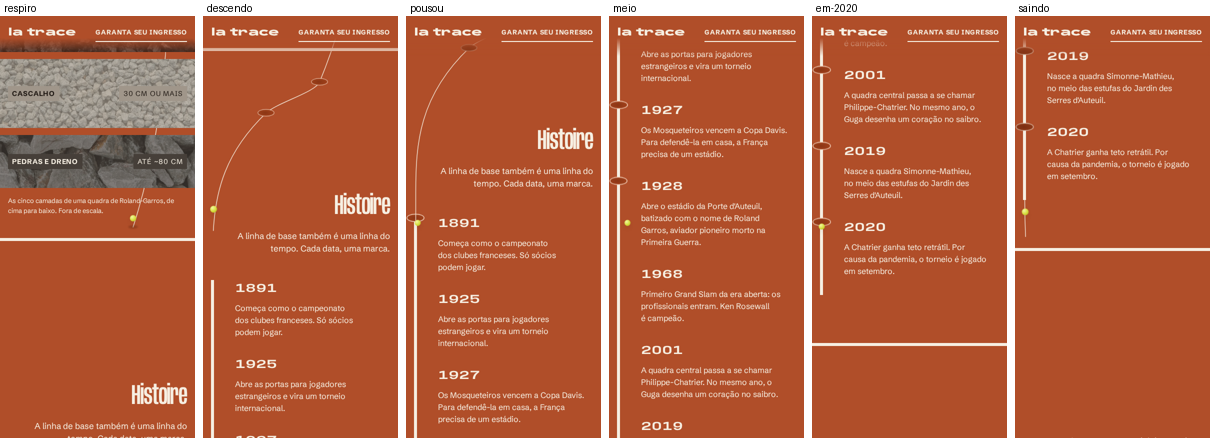
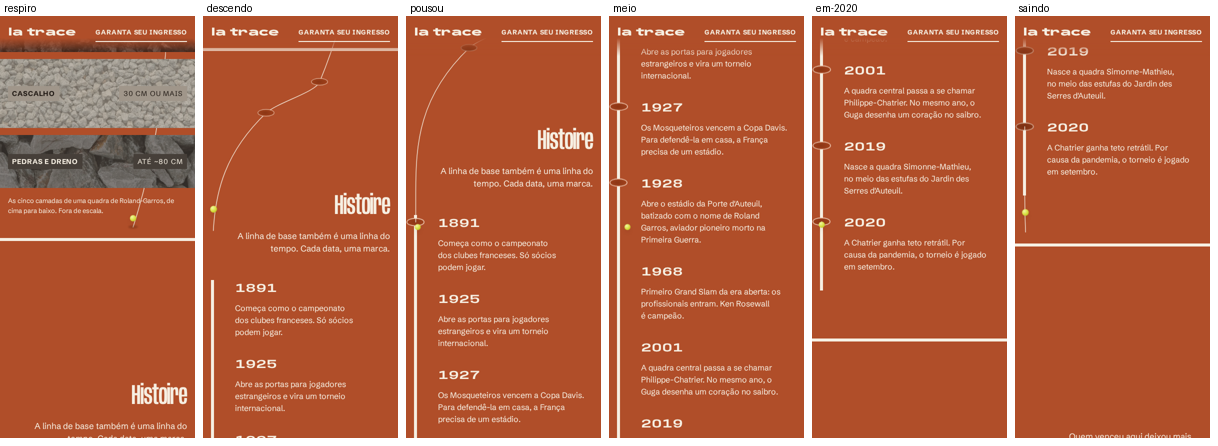
fix: Histoire com as marcas no centro da linha, o traço terminando na bola e a saída pela ponta da linha

diff --git a/src/extras.js b/src/extras.js
@@ -65,7 +65,8 @@ export function runTimeline(section) {
   section.dataset.dock = '';
 
   // as datas são marcas: nascem quando a bola toca nelas
-  gsap.set(dots, { yPercent: -50, scale: 0 });
+  // (o CSS já centra a data na linha com translateY(-50%); o GSAP assume esse deslocamento como yPercent)
+  gsap.set(dots, { y: 0, yPercent: -50, scale: 0 });
   const made = dots.map(() => false);
   function touch(i) {
     if (made[i]) return;
@@ -88,22 +89,6 @@ export function runTimeline(section) {
     return { x: d.x + d.width / 2, y: d.y };
   };
   const trackAt = () => localOf(track, section);
-  // a saída: pelo vão entre o texto da penúltima data e a última, e para baixo até passar os textos
-  function exitPoints(shiftX) {
-    const last = items[lastIndex];
-    const box = localOf(last, section);
-    const before = items[lastIndex - 1].getBoundingClientRect();
-    const range = document.createRange();
-    range.selectNodeContents(items[lastIndex - 1]);
-    const textRight = Math.max(...[...range.getClientRects()].map((r) => r.right)) - before.left + localOf(items[lastIndex - 1], section).x;
-    const x = (textRight + box.x) / 2 - shiftX;
-    const lastDot = dotAt(lastIndex);
-    return [
-      { x: lastDot.x - shiftX, y: lastDot.y, contact: true },
-      { x, y: lastDot.y + 24 },
-      { x, y: box.y + box.height + 16 },
-    ];
-  }
   const shift = { entry: () => ({ x: -trackAt().x, y: -trackAt().y }) };
   const passed = () => dots.forEach((_, i) => touch(i));
 
@@ -139,13 +124,21 @@ export function runTimeline(section) {
   gsap.matchMedia().add('(min-width: 721px)', () => {
     // medidas de layout (offset*), que não mudam com o translate já aplicado
     const distance = () => Math.max(0, track.offsetLeft + track.offsetWidth - section.clientWidth);
+    // a ponta da linha, com a linha já no fim do scroll lateral: no meio do trecho a mais depois de 2020
+    const lineEnd = () => {
+      const last = localOf(items[lastIndex], section);
+      const right = section.clientWidth;
+      const after = last.x + last.width - distance();
+      return { x: Math.min(right - 40, after + (right - after) * 0.55), y: dotAt(lastIndex).y };
+    };
     const hold = () => window.innerHeight * 0.25; // a espera em 1891 e em 2020
+    const out = () => window.innerHeight * 0.3; // o último pulo, de 2020 até o fim da linha
     const travelAt = (t) => gsap.utils.clamp(0, 1, (t - hold()) / Math.max(1, distance()));
     const st = ScrollTrigger.create({
       trigger: section,
       // o pin começa quando 1891 chega ao meio da tela: é onde a ponta do traço (e a bola) está
       start: () => `top ${window.innerHeight / 2 - dotAt(0).y}px`,
-      end: () => `+=${distance() + 2 * hold()}`,
+      end: () => `+=${distance() + 2 * hold() + out()}`,
       pin: true,
       invalidateOnRefresh: true,
       onUpdate: (self) => gsap.set(track, { x: -distance() * travelAt(self.progress * (self.end - self.start)) }),
@@ -158,11 +151,38 @@ export function runTimeline(section) {
       total: () => st.end - st.start,
       points: () => {
         const first = dotAt(0);
-        // desce reto pela esquerda (o título está à direita) e pousa em 1891
-        return { entry: [{ x: first.x, y: first.y - 120 }, { ...first, contact: true }], exit: exitPoints(distance()) };
+        const end = lineEnd();
+        const lastItem = localOf(items[lastIndex], section);
+        // desce reto pela esquerda (o título está à direita) e pousa em 1891; no fim, cai da ponta da linha
+        return {
+          entry: [{ x: first.x, y: first.y - 120 }, { ...first, contact: true }],
+          exit: [{ ...end, contact: true }, { x: end.x, y: lastItem.y + lastItem.height + 16 }],
+        };
       },
-      // u: de 0 (pouso em 1891) a 1 (saída de 2020), ao longo do pin inteiro
-      hop: (u) => hopTo(travelAt(u * (st.end - st.start)) * lastIndex, 'x'),
+      // u: de 0 (pouso em 1891) a 1 (a bola na ponta da linha), ao longo do pin inteiro
+      hop: (u) => {
+        const t = u * (st.end - st.start);
+        const leave = 2 * hold() + distance();
+        if (t < leave) {
+          hopTo(travelAt(t) * lastIndex, 'x');
+          return;
+        }
+        // o último pulo segue para a direita, como os outros: de 2020 até a ponta da linha
+        hopTo(lastIndex, 'x');
+        const f = gsap.utils.clamp(0, 1, (t - leave) / out());
+        const from = dotAt(lastIndex);
+        const a = { x: from.x - distance(), y: from.y };
+        const b = lineEnd();
+        const lift = 4 * f * (1 - f) * 30;
+        const ground = f > 0.94;
+        gsap.set(ball, {
+          x: a.x + (b.x - a.x) * f,
+          y: a.y - lift,
+          scaleX: ground ? 1.18 : 1,
+          scaleY: ground ? 0.74 : 1,
+          opacity: 1,
+        });
+      },
       passed,
     };
     return () => {

diff --git a/tests/e2e/extras.spec.js b/tests/e2e/extras.spec.js
@@ -111,8 +111,9 @@ const pinOf = (page) =>
     let y = 0;
     for (let n = dot; n && n !== sec; n = n.offsetParent) y += n.offsetTop;
     // o pin começa quando a bola pousa em 1891 (no meio da tela); espera, a linha corre, espera em 2020
+    // e dá o último pulo até a ponta da linha
     const start = top + y - innerHeight / 2;
-    return { start, end: start + spacer.offsetHeight - sec.offsetHeight, hold: innerHeight * 0.25 };
+    return { start, end: start + spacer.offsetHeight - sec.offsetHeight, hold: innerHeight * 0.25, out: innerHeight * 0.3 };
   });
 
 async function glideTo(page, y) {
@@ -147,9 +148,11 @@ test('Histoire: uma bola só do começo ao fim; ela espera na 1ª data e na últ
     await glideTo(page, pin.start + (pin.end - pin.start) * f);
     expect(await visibleBalls(page)).toBe(1);
   }
-  await glideTo(page, pin.end - pin.hold * 0.5); // espera em 2020
+  await glideTo(page, pin.end - pin.out - pin.hold * 0.5); // espera em 2020
   expect(await visibleBalls(page)).toBe(1);
   expect(await ballOnDot(page, -1)).toBeLessThan(14);
+  await glideTo(page, pin.end - pin.out * 0.5); // o último pulo, para a ponta da linha
+  expect(await visibleBalls(page)).toBe(1);
   for (const y of [pin.end + 200, pin.end + 700]) {
     await glideTo(page, y);
     expect(await visibleBalls(page)).toBe(1);
@@ -217,4 +220,24 @@ test.describe('Histoire no celular', () => {
       expect(hits).toEqual([]);
     }
   });
+});
+
+test('Histoire: as marcas ficam no centro da linha e o traço da chegada termina na bola', async ({ page }) => {
+  await page.goto('/');
+  await page.waitForLoadState('load');
+  const pin = await pinOf(page);
+  await glideTo(page, pin.start + pin.hold * 0.5);
+  const geometry = await page.evaluate(() => {
+    const sec = document.querySelector('#histoire');
+    const track = sec.querySelector('[data-timeline-track]');
+    const line = getComputedStyle(track, '::before');
+    const lineY = track.getBoundingClientRect().top + parseFloat(line.top) + parseFloat(line.height) / 2;
+    const dot = sec.querySelector('.timeline__dot').getBoundingClientRect();
+    const entry = sec.querySelector('.histoire__trace path');
+    const drawn = parseFloat(getComputedStyle(entry).strokeDasharray.split(',')[0]);
+    const end = entry.getPointAtLength(drawn).matrixTransform(entry.getScreenCTM());
+    return { lineY, dotY: dot.top + dot.height / 2, traceEndY: end.y };
+  });
+  expect(Math.abs(geometry.dotY - geometry.lineY)).toBeLessThan(1.5);
+  expect(geometry.traceEndY).toBeLessThan(geometry.dotY + 2);
 });

diff --git a/src/rally.js b/src/rally.js
@@ -168,8 +168,9 @@ export function createRally({ container, start }) {
         p.setAttribute('d', rally.d);
         p.setAttribute('transform', `translate(${s.x} ${s.y - off})`);
       }
-      d.lin = lengthForY(d.inY);
-      d.lout = lengthForY(d.outY);
+      // exatos (a tabela tem um ponto a cada ~25 px): o traço da chegada termina na bola, sem passar dela
+      d.lin = exactLengthForY(d.inY);
+      d.lout = exactLengthForY(d.outY);
     }
   }
 
@@ -202,6 +203,17 @@ export function createRally({ container, start }) {
         opacity: y > -15 && y < d.dock.el.clientHeight + 15 ? 1 : 0,
       });
     }
+  }
+
+  // o comprimento do traço em que ele chega à altura y, por bisseção (o traço só desce: y cresce com o comprimento)
+  function exactLengthForY(y) {
+    let [lo, hi] = [0, length];
+    for (let i = 0; i < 30; i++) {
+      const mid = (lo + hi) / 2;
+      if (path.getPointAtLength(mid).y < y) lo = mid;
+      else hi = mid;
+    }
+    return hi;
   }
 
   function lengthForY(y) {

diff --git a/processo/prompts/2026-10-10-34-histoire-detalhes.md b/processo/prompts/2026-10-10-34-histoire-detalhes.md
@@ -1,0 +1,21 @@
+# Prompt 34 · Histoire: o traço passando do quique, marcas fora do centro e a saída
+
+**Data:** 2026-10-10 · **Ferramenta:** Claude Code (Claude Opus 5.5)
+
+## O que eu pedi (literal)
+> boa! melhorou muito, mas a linha esta passando no primeiro quique e as marcas nao estao ao centro da linha, e na hora da bola sair, ela saindo pela esquerda do texto ta meio estranho
+
+## O que a IA fez
+- **Marcas fora do centro:** o CSS já centrava a data na linha com `translateY(-50%)`, e o GSAP somava outro -50% por cima. A marca subia 8 px. Agora o deslocamento é aplicado uma vez só.
+- **O traço passando do primeiro quique:** o ponto onde o traço da chegada para era procurado numa tabela com um ponto a cada ~25 px de caminho, então ele passava da bola e atravessava a linha. Agora o ponto exato é calculado por bisseção, e o traço termina na bola.
+- **A saída:** em vez de descer pela esquerda do texto de 2020, a bola segue na direção dos pulos. Ainda com a seção presa, dá **um último pulo para a direita**, até a ponta da linha (o trecho a mais depois de 2020). Quando a seção solta, ela cai reto da ponta da linha, à direita do texto.
+- **Testes:**
+  - 1 E2E novo: a marca no centro da linha (menos de 1,5 px) e o traço da chegada terminando na bola. Com o código anterior ele falha (8,4 px fora);
+  - o teste de "uma bola só" agora confere também o último pulo;
+  - total: 51 E2E e 20 unitários.
+- Evidências: `processo/evidencias/23/detalhe-pouso-e-saida.png` (o pouso em 1891, a espera em 2020, o último pulo e a queda da ponta da linha), além das sequências.
+
+## Minha avaliação
+<!-- Preencher -->
+
+-

diff --git a/processo/tickets/23-histoire-uma-bola-so.md b/processo/tickets/23-histoire-uma-bola-so.md
@@ -17,3 +17,8 @@
 - [x] O traço chega à 1ª data e sai da última, sem cruzar texto
 - [x] Celular e reduced-motion
 - [x] Log da etapa em `processo/prompts/`
+
+**Histórico:** feito em 4 versões, cada uma depois de uma correção minha (correções de rota #29, #30 e #31; prompts 30–34). A versão final:
+- o título fica à direita e a bola desce pela esquerda até 1891;
+- a bola pula de data em data sem arcos;
+- no fim, dá um último pulo até a ponta da linha e cai dali.
